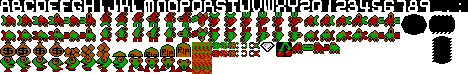
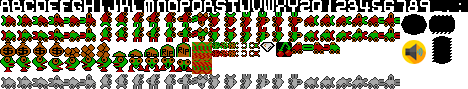
fix dead digger Animation

diff --git a/src/Spielbereitstellug/Spiel.java b/src/Spielbereitstellug/Spiel.java
@@ -1482,79 +1482,60 @@ for (Iterator<Hobbin> iterator = hobbins.iterator(); iterator.hasNext(); ) {
 
 			// Spieler
 
-			if (sp1 != null) {
-				if (sp1.isAlive()) {
+			Spieler[] sp = new Spieler[2];
 
-					Animation ani_left = current_skin.getAnimation("digger_red_left");
-					Animation ani_right = current_skin.getAnimation("digger_red_right");
-					Animation ani_up = current_skin.getAnimation("digger_red_up");
-					Animation ani_down = current_skin.getAnimation("digger_red_down");
+			sp[0] = sp1;
+			sp[1] = sp2;
 
-					BufferedImage sp1Img = null;
+			Animation ani_left;
+			Animation ani_right;
+			Animation ani_up;
+			Animation ani_down;
 
-					if (sp1.getMoveDir() == DIRECTION.RIGHT) {
-						sp1Img = ani_right.nextFrame(field_size);
+			for(int i = 0; i<sp.length; i++) {
+				if (sp[i] != null) {
+					if (sp[i].isAlive()) {
+						if(i == 0) {
+							ani_left = current_skin.getAnimation("digger_red_left");
+							ani_right = current_skin.getAnimation("digger_red_right");
+							ani_up = current_skin.getAnimation("digger_red_up");
+							ani_down = current_skin.getAnimation("digger_red_down");
+						}
+						else {
+							ani_left = current_skin.getAnimation("digger_gre_left");
+							ani_right = current_skin.getAnimation("digger_gre_right");
+							ani_up = current_skin.getAnimation("digger_gre_up");
+							ani_down = current_skin.getAnimation("digger_gre_down");
+						}
+					} else {
+						ani_left = current_skin.getAnimation("digger_dead_left");
+						ani_right = current_skin.getAnimation("digger_dead_right");
+						ani_up = current_skin.getAnimation("digger_dead_up");
+						ani_down = current_skin.getAnimation("digger_dead_down");
 					}
-					if (sp1.getMoveDir() == DIRECTION.LEFT) {
-						sp1Img = ani_left.nextFrame(field_size);
-					}
-					if (sp1.getMoveDir() == DIRECTION.UP) {
-						sp1Img = ani_up.nextFrame(field_size);
-					}
-					if (sp1.getMoveDir() == DIRECTION.DOWN) {
-						sp1Img = ani_down.nextFrame(field_size);
-					}
-
-
-					int x_pixel = sp1.getPosition()[0] - (sp1Img.getWidth() / 2);
-					int y_pixel = sp1.getPosition()[1] - (sp1Img.getHeight() / 2);
-					g.drawImage(sp1Img, x_pixel, y_pixel, null);
-
-				} else {
-					// gegen Geist ersetzen
-					//Animation ani_grave = current_skin.getAnimation("Grave");
-					BufferedImage sp1Img = current_skin.getImage("grave_f5");
-					int x_pixel = sp1.getPosition()[0] - (sp1Img.getWidth() / 2);
-					int y_pixel = sp1.getPosition()[1] - (sp1Img.getHeight() / 2);
-					g.drawImage(sp1Img, x_pixel, y_pixel, null);
-				}
-			}
-
-			if (sp2 != null) {
-				if (sp2.isAlive()) {
-					Animation ani_left = current_skin.getAnimation("digger_gre_left");
-					Animation ani_right = current_skin.getAnimation("digger_gre_right");
-					Animation ani_up = current_skin.getAnimation("digger_gre_up");
-					Animation ani_down = current_skin.getAnimation("digger_gre_down");
 
 					BufferedImage spImg = null;
 
-					if (sp2.getMoveDir() == DIRECTION.RIGHT) {
+					if (sp[i].getMoveDir() == DIRECTION.RIGHT) {
 						spImg = ani_right.nextFrame(field_size);
 					}
-					if (sp2.getMoveDir() == DIRECTION.LEFT) {
+					if (sp[i].getMoveDir() == DIRECTION.LEFT) {
 						spImg = ani_left.nextFrame(field_size);
 					}
-					if (sp2.getMoveDir() == DIRECTION.UP) {
+					if (sp[i].getMoveDir() == DIRECTION.UP) {
 						spImg = ani_up.nextFrame(field_size);
 					}
-					if (sp2.getMoveDir() == DIRECTION.DOWN) {
+					if (sp[i].getMoveDir() == DIRECTION.DOWN) {
 						spImg = ani_down.nextFrame(field_size);
 					}
 
 
-					int x_pixel = sp2.getPosition()[0] - (spImg.getWidth() / 2);
-					int y_pixel = sp2.getPosition()[1] - (spImg.getHeight() / 2);
-					g.drawImage(spImg, x_pixel, y_pixel, null);
-				} else {
-					// gegen Geist ersetzen
-					//Animation ani_grave = current_skin.getAnimation("Grave");
-					BufferedImage spImg = current_skin.getImage("grave_f5", field_size);
-					int x_pixel = sp2.getPosition()[0] - (spImg.getWidth() / 2);
-					int y_pixel = sp2.getPosition()[1] - (spImg.getHeight() / 2);
+					int x_pixel = sp[i].getPosition()[0] - (spImg.getWidth() / 2);
+					int y_pixel = sp[i].getPosition()[1] - (spImg.getHeight() / 2);
 					g.drawImage(spImg, x_pixel, y_pixel, null);
 				}
 			}
+
 
 			// Zeichne Score
 			int margin_y = field_size / 4;

diff --git a/src/Spielverlauf/Skin.java b/src/Spielverlauf/Skin.java
@@ -161,6 +161,43 @@ public class Skin {
 		gre_dbilder[5] = getImage("dig_gre_dow_f6");
 		animations.put("digger_gre_down", new Animation(animation_measure, gre_dbilder, this, DIRECTION.DOWN, true));
 
+		//Spieler tot
+		BufferedImage[] dead_rbilder = new BufferedImage[6];
+		dead_rbilder[0] = getImage("dig_dead_rgt_f1");
+		dead_rbilder[1] = getImage("dig_dead_rgt_f2");
+		dead_rbilder[2] = getImage("dig_dead_rgt_f3");
+		dead_rbilder[3] = getImage("dig_dead_rgt_f4");
+		dead_rbilder[4] = getImage("dig_dead_rgt_f5");
+		dead_rbilder[5] = getImage("dig_dead_rgt_f6");
+		animations.put("digger_dead_right", new Animation(animation_measure, dead_rbilder, this, DIRECTION.RIGHT, true));
+
+		BufferedImage[] dead_lbilder = new BufferedImage[6];
+		dead_lbilder[0] = getImage("dig_dead_lft_f1");
+		dead_lbilder[1] = getImage("dig_dead_lft_f2");
+		dead_lbilder[2] = getImage("dig_dead_lft_f3");
+		dead_lbilder[3] = getImage("dig_dead_lft_f4");
+		dead_lbilder[4] = getImage("dig_dead_lft_f5");
+		dead_lbilder[5] = getImage("dig_dead_lft_f6");
+		animations.put("digger_dead_left", new Animation(animation_measure, dead_lbilder, this, DIRECTION.LEFT, true));
+
+		BufferedImage[] dead_ubilder = new BufferedImage[6];
+		dead_ubilder[0] = getImage("dig_dead_up_f1");
+		dead_ubilder[1] = getImage("dig_dead_up_f2");
+		dead_ubilder[2] = getImage("dig_dead_up_f3");
+		dead_ubilder[3] = getImage("dig_dead_up_f4");
+		dead_ubilder[4] = getImage("dig_dead_up_f5");
+		dead_ubilder[5] = getImage("dig_dead_up_f6");
+		animations.put("digger_dead_up", new Animation(animation_measure, dead_ubilder, this, DIRECTION.UP, true));
+
+		BufferedImage[] dead_dbilder = new BufferedImage[6];
+		dead_dbilder[0] = getImage("dig_dead_dow_f1");
+		dead_dbilder[1] = getImage("dig_dead_dow_f2");
+		dead_dbilder[2] = getImage("dig_dead_dow_f3");
+		dead_dbilder[3] = getImage("dig_dead_dow_f4");
+		dead_dbilder[4] = getImage("dig_dead_dow_f5");
+		dead_dbilder[5] = getImage("dig_dead_dow_f6");
+		animations.put("digger_dead_down", new Animation(animation_measure, dead_dbilder, this, DIRECTION.DOWN, true));
+
 		BufferedImage[] hob_left_bilder = new BufferedImage[4];
 		hob_left_bilder[0] = getImage("hobbin_right_f1");
 		hob_left_bilder[1] = getImage("hobbin_right_f2");

diff --git a/src/Menuefuehrung/Options.java b/src/Menuefuehrung/Options.java
@@ -78,8 +78,7 @@ public class Options extends JPanel implements ActionListener, Filesystem {
         add(b8);
 
 
-        ImageIcon icon = new ImageIcon(imageDir+"VolumeIcon.png");
-        b8.setIcon(icon);
+        b8.setIcon(new ImageIcon(skin.getImage("mute_btn")));
         b8.addActionListener(this);
 
         JPanel sigleplayer = new JPanel();
@@ -215,22 +214,6 @@ public class Options extends JPanel implements ActionListener, Filesystem {
             layout.show(menu, "Manual");
 
         });
-
-       /* b7.addActionListener(new ActionListener() {
-            @Override
-            public void actionPerformed(ActionEvent e) {
-
-                Desktop desktop = Desktop.getDesktop();
-                if (desktop != null && desktop.isSupported(Desktop.Action.OPEN)) {
-                    try {
-                        desktop.open(new File("bin/Benutzerhandbuch .pdf"));
-                    } catch (IOException ioException) {
-                        ioException.printStackTrace();
-                    }
-                }
-            }
-        });*/
-
     }
 
 
